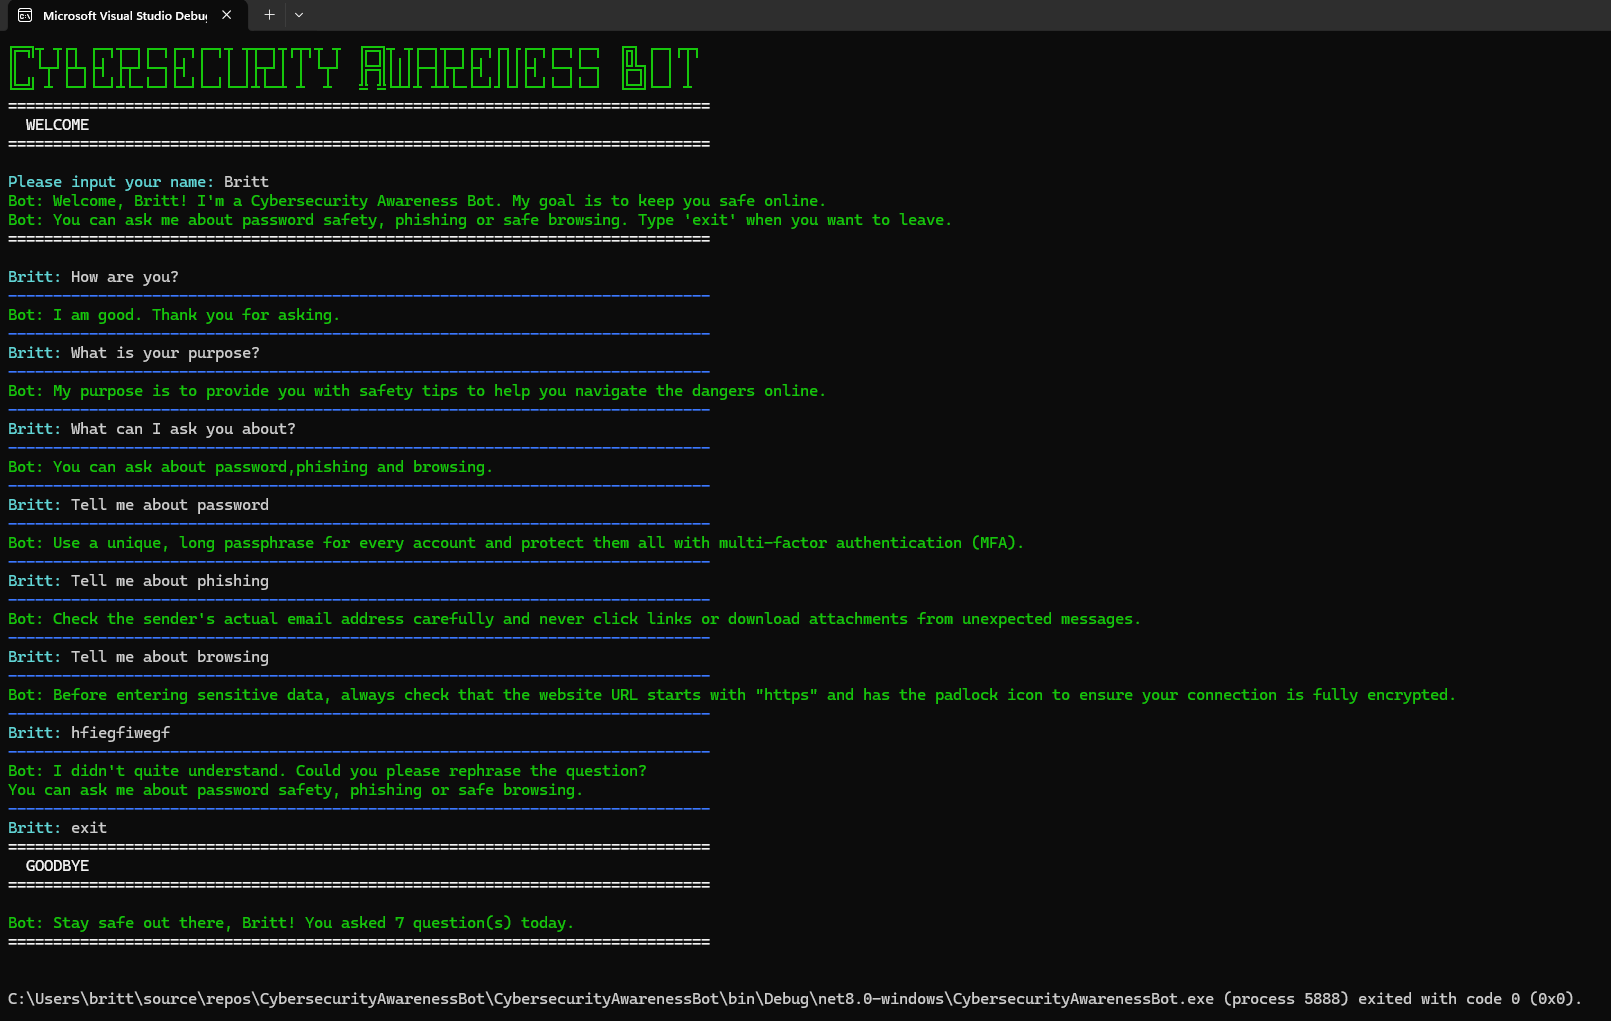
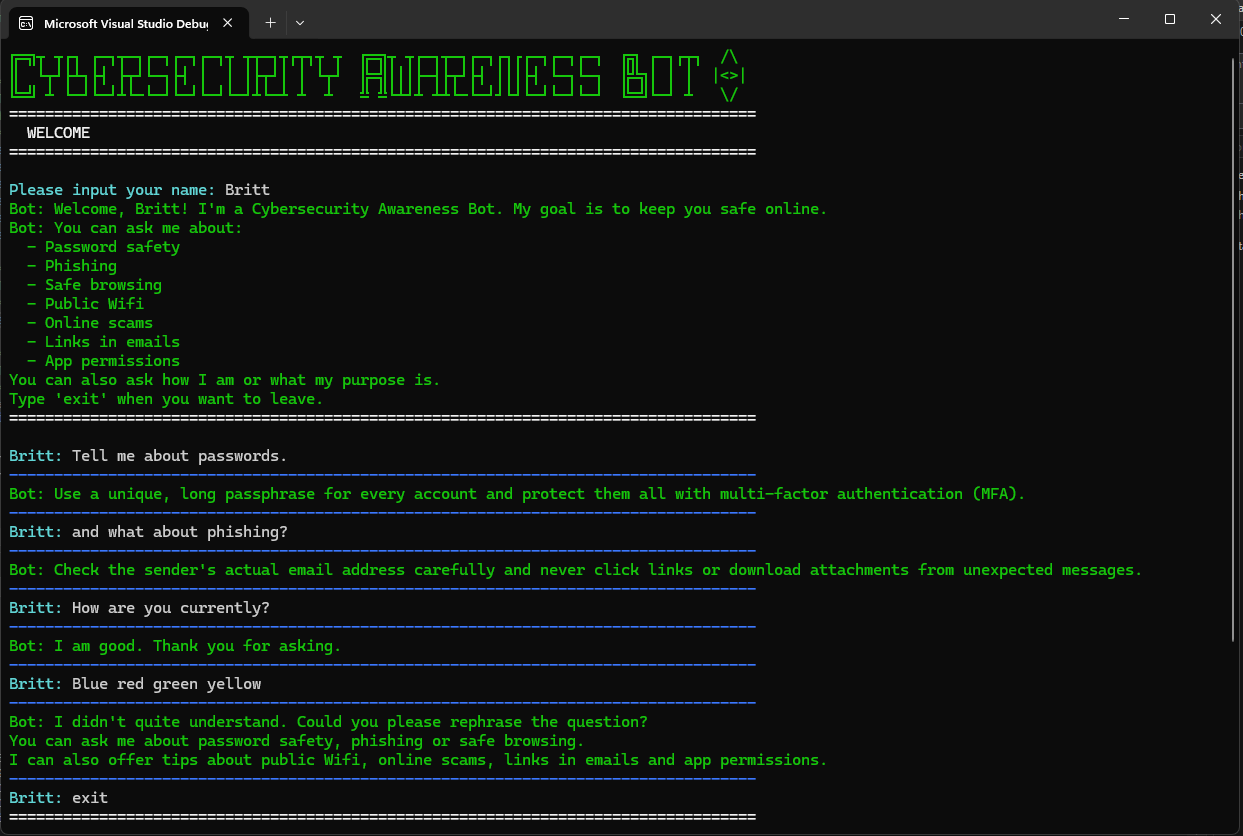
Add Workflow image to README

Changed region(s): [[0.0, 0.0, 1.0, 1.0]]

diff --git a/README.md b/README.md
@@ -66,7 +66,7 @@ Example of a conversation with the chatbot:
 ## Continuous Integration
 
 The workflow is set up in GitHub so that every push triggers it. The workflow checks out the code, installs the .NET 8 SDK, restores dependencies and builds the solution in Release configuration.
-
+![Example conversation](CybersecurityAwarenessBot/Pictures/workFlow.png)
 
 
 ## Video Presentation
